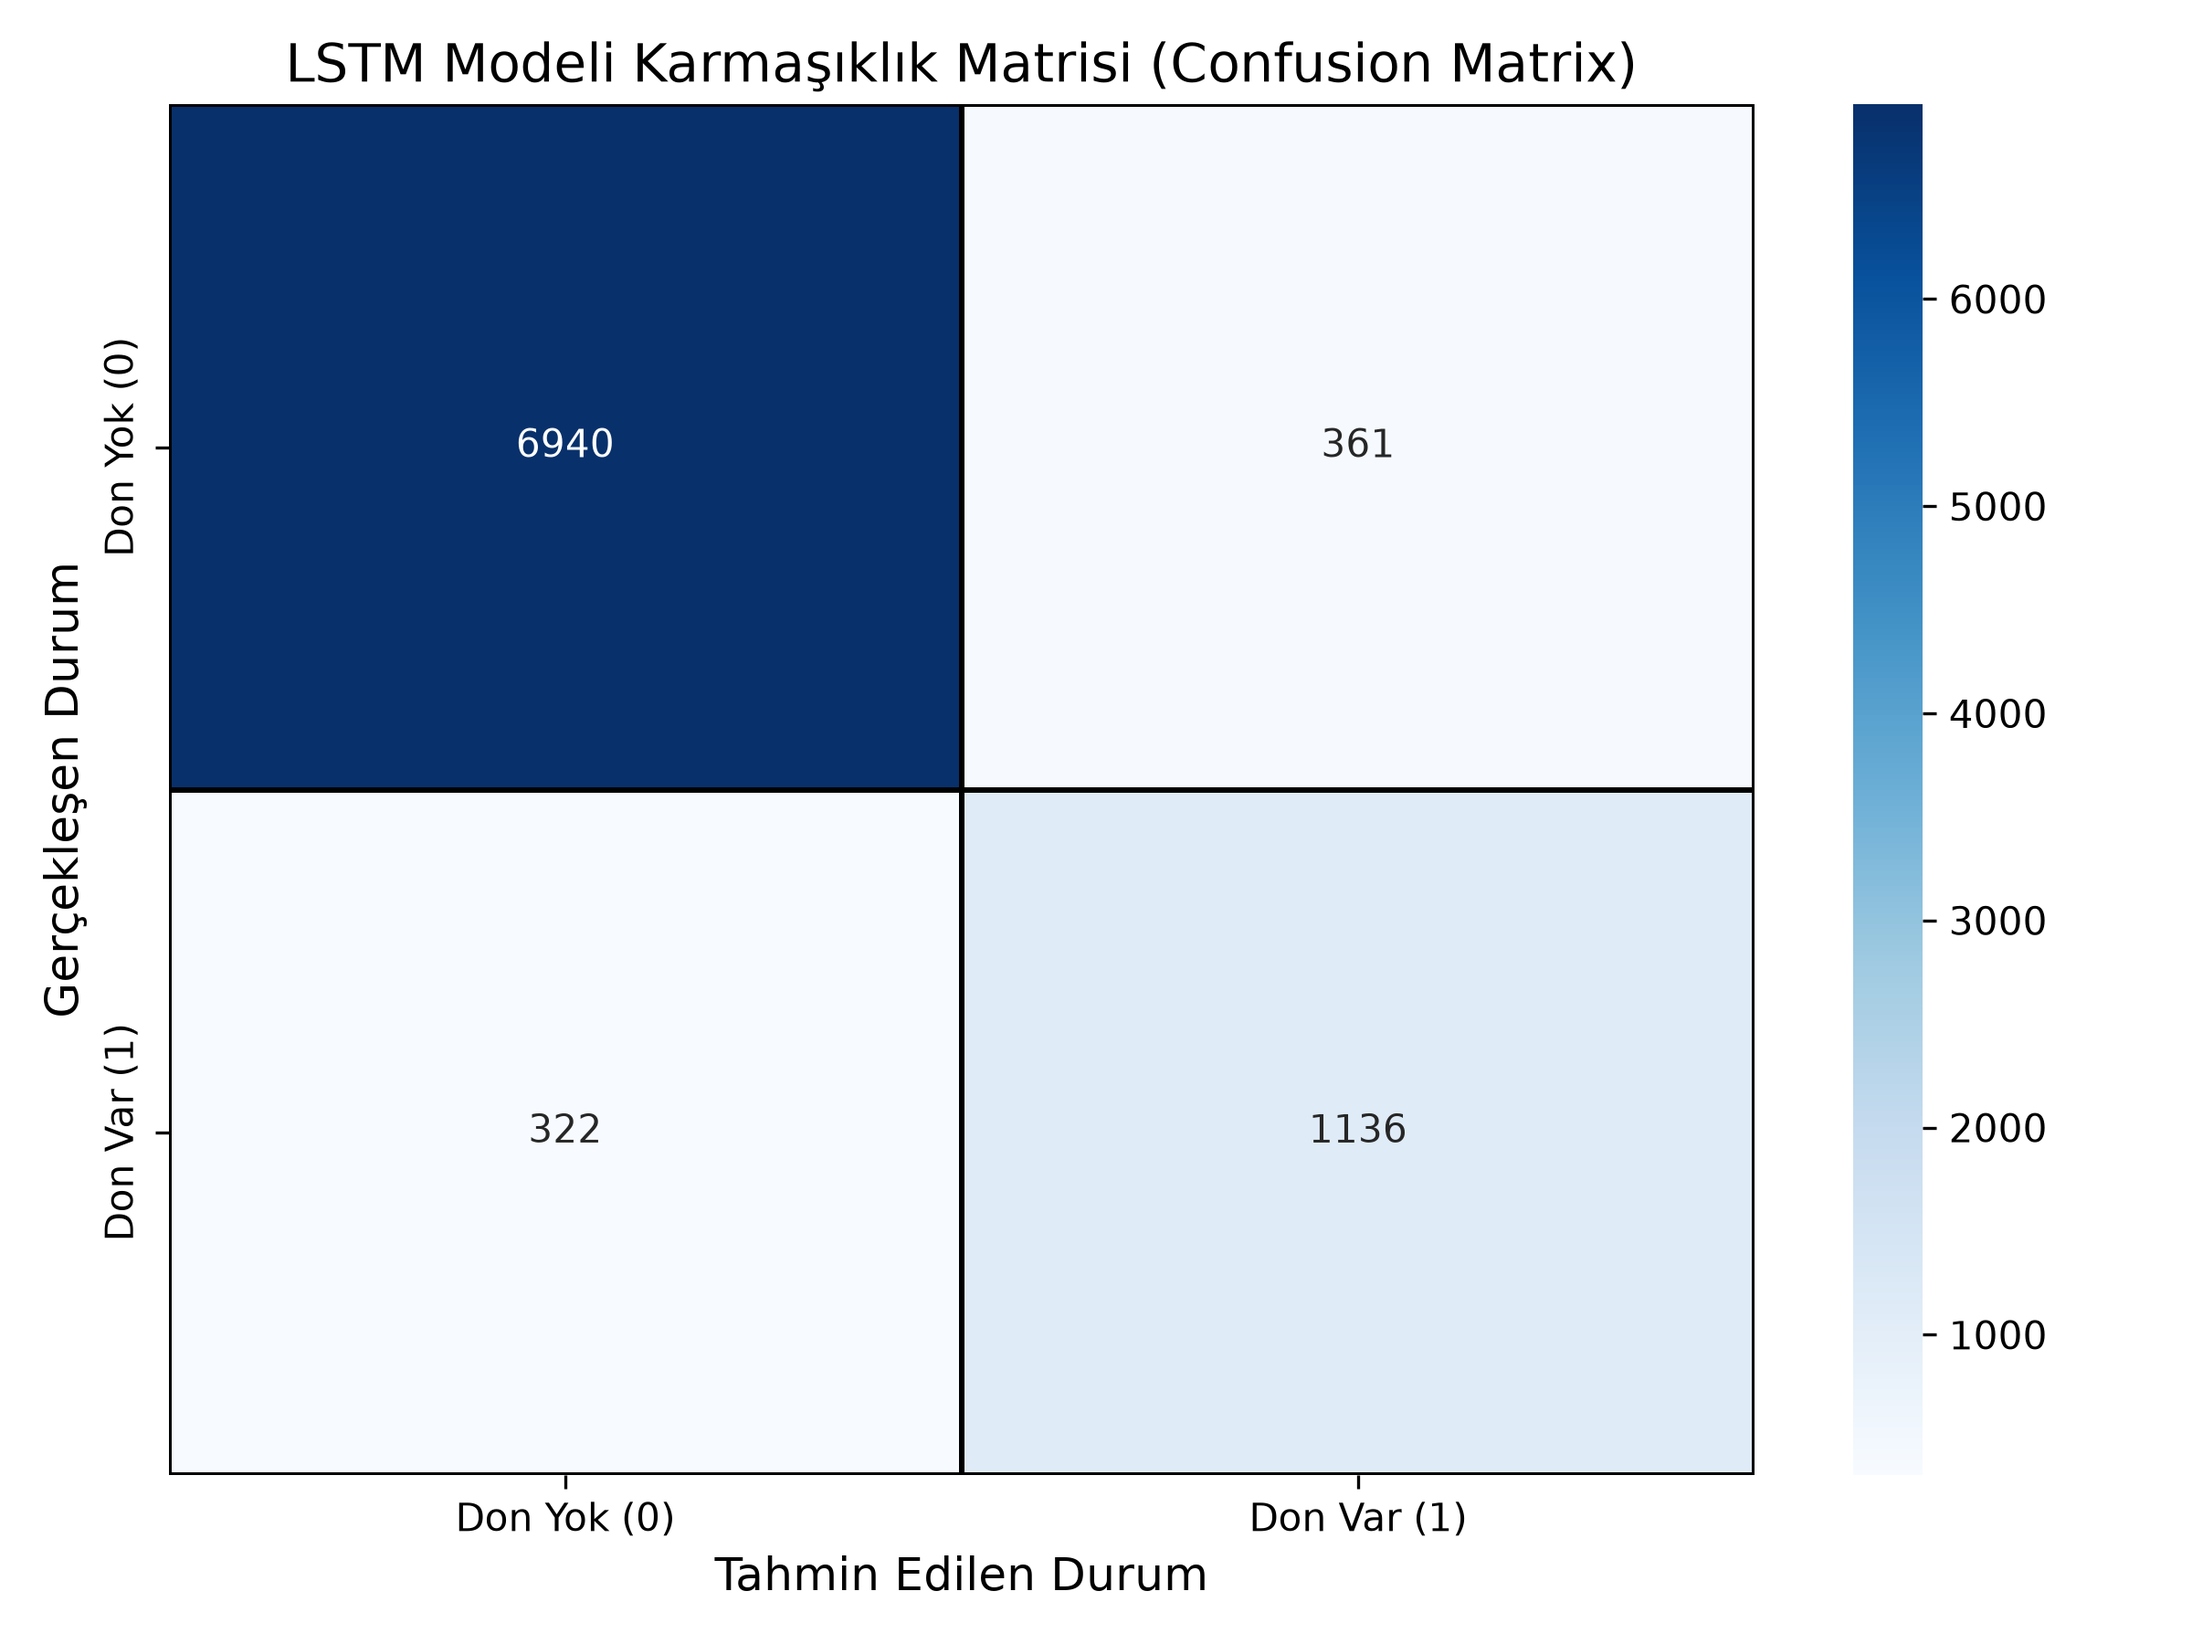
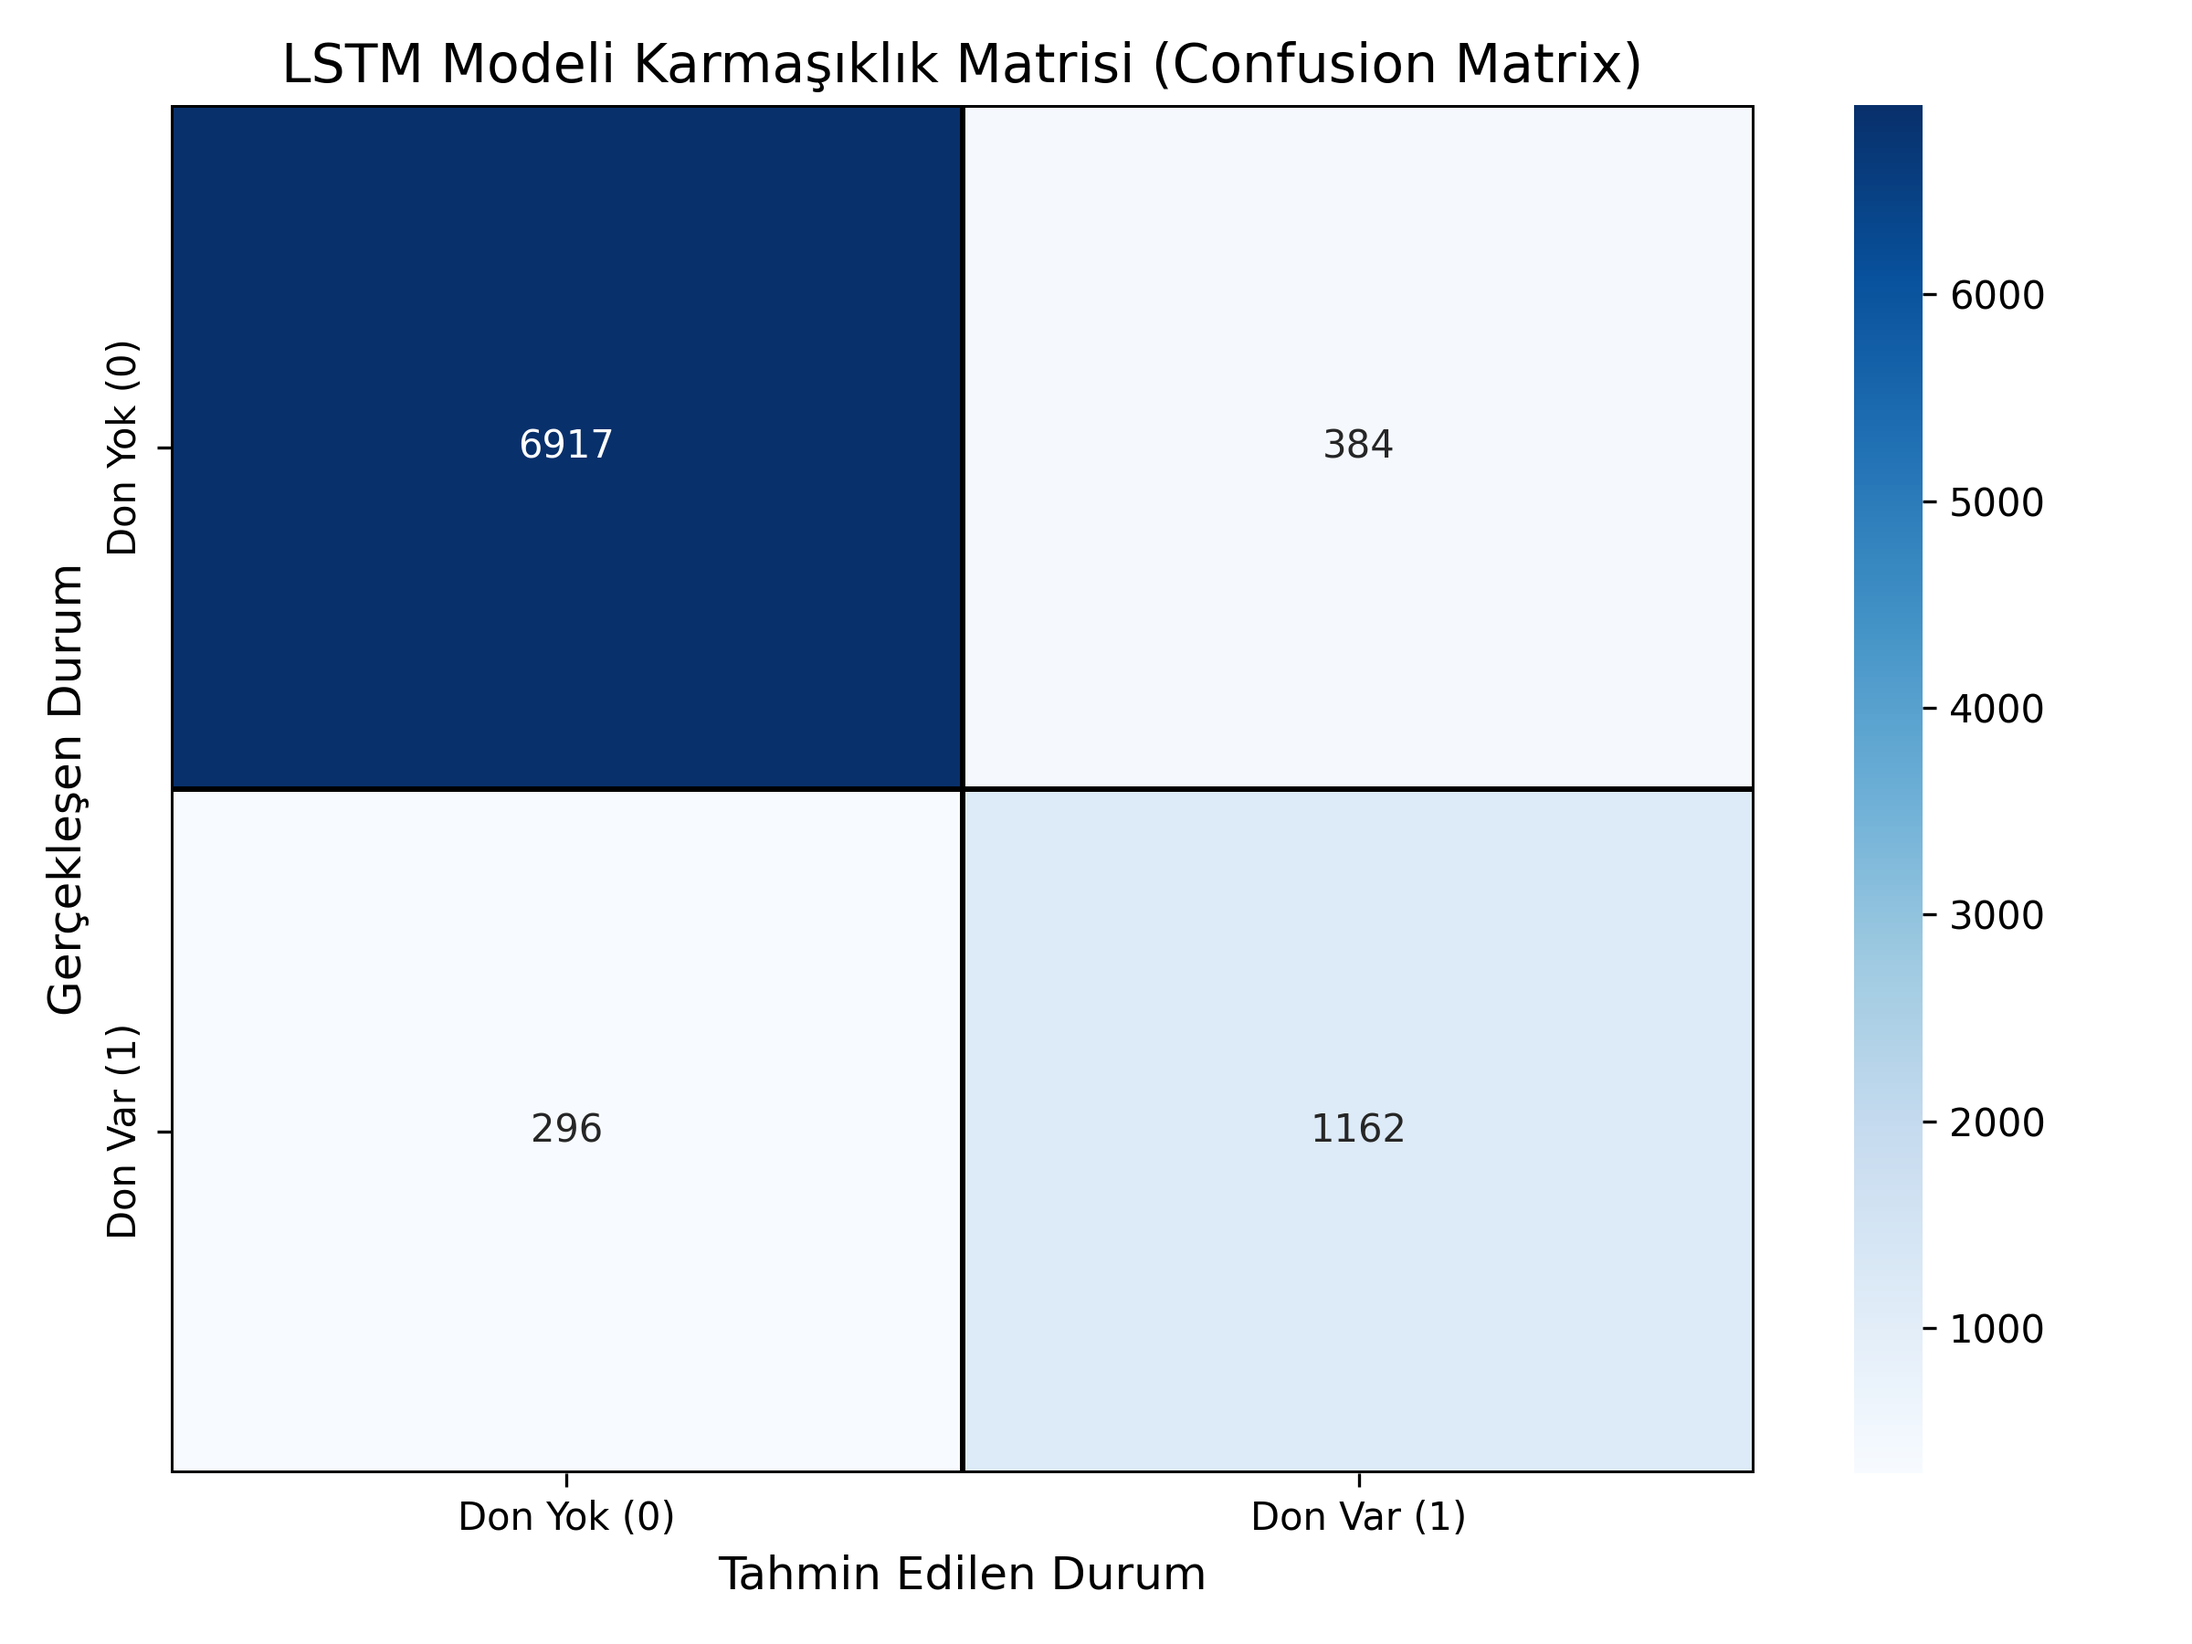
Fix: Streamlit API URL localhost'tan Render bulut sunucusuna yönlendirildi

diff --git a/dashboard.py b/dashboard.py
@@ -87,8 +87,9 @@ with tab1:
         st.divider()
 
         if analyze_button:
-            api_url = "http://127.0.0.1:8050/predict"
+            #api_url = "http://127.0.0.1:8050/predict"
             #api_url = "http://0.0.0.0:8050/predict" Render Web Service için
+            api_url = "https://early-frost-risk-analysis.onrender.com/predict"
             payload = {
                 "temperature": temp, "humidity": humidity,
                 "dew_point": dew_point, "wind_speed": wind_speed,
